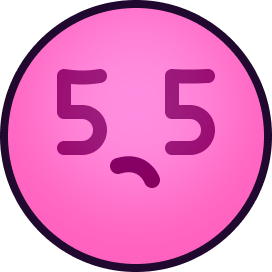
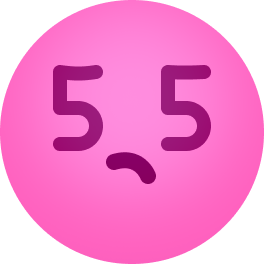
blink effect, shadow outline, fake rotate

diff --git a/game.js b/game.js
@@ -289,17 +289,32 @@ function renderSceneToCanvas(ctx) {
     }
 
     // foreground
+    ctx.fillStyle = "#20082EA0";
+    compDrops.bodies.forEach((body) => { renderSphereShadow(ctx, body); });
+    compWorld.bodies.forEach((body) => { renderSphereShadow(ctx, body); });
 
-    compDrops.bodies.forEach((body) => {
-        renderSphereBody(ctx, body);
-    });
+    compDrops.bodies.forEach((body, index) => { renderSphereBody(ctx, body, index); });
+    compWorld.bodies.forEach((body) => { renderSphereBody(ctx, body); });
 
-    compWorld.bodies.forEach((body) => {
-        renderSphereBody(ctx, body);
-    });
+    function renderSphereShadow(ctx, body) {
+        const r = body.circleRadius + 4;
+        let p = { x: body.position.x, y: body.position.y};
+
+        if (body.removeTimestamp !== undefined && !body.destination) {
+            const mergeDonePercent = (Common.now() - body.removeTimestamp) / MS_UNTIL_MERGE;
+            const mergeCurve = (Math.max(0, mergeDonePercent - 0.5) * 2) ** 4; // wait half the merge wait time, then accelerate towards destination
+            const destPosition = body.mergeTarget.position;
+            const currentMergePosition = lerpVec(p, destPosition, mergeCurve * (1-MERGE_LERP_BIAS));
+            p = currentMergePosition;
+        }
+
+        ctx.beginPath();
+        ctx.arc(p.x, p.y, r, 0, 2 * Math.PI);
+        ctx.fill();
+    }
 
     function renderSphereBody(ctx, body) {
-        const r = body.circleRadius * (body.growPercent ?? 1);
+        const r = body.circleRadius;
         let p = { x: body.position.x, y: body.position.y };
 
         if (body.removeTimestamp !== undefined && !body.destination) {
@@ -312,12 +327,21 @@ function renderSceneToCanvas(ctx) {
 
         ctx.save();
         ctx.translate(p.x, p.y);
-        ctx.rotate(body.angle)
+        const visualRotationAdd = (p.x / body.circleRadius) * Math.PI * 0.5;
+        ctx.rotate(body.angle + visualRotationAdd);
         const sprite = ctxSprites.sphere[body.stage - 1];
         const spriteScale = 0.5;
         ctx.drawImage(sprite, - sprite.width * spriteScale * 0.5, - sprite.height * spriteScale * 0.5, sprite.width * spriteScale, sprite.height * spriteScale);
         // ctx.fillStyle = 'black';
         // ctx.fillText(body.dropID ?? '', 0, 0)
+        if (body.removeTimestamp !== undefined) {
+            const mergeAnimPercentage = (Common.now() - body.removeTimestamp) / MS_UNTIL_MERGE;
+            console.log(mergeAnimPercentage)
+            ctx.fillStyle = (Math.sin((mergeAnimPercentage*4) ** 2) > 0) ? '#ffffff' : '#ffffff20';
+            ctx.beginPath();
+            ctx.arc(0, 0, r, 0, 2 * Math.PI);
+            ctx.fill();
+        }
         ctx.restore();
     }
 
@@ -483,7 +507,7 @@ function dropSphereFromStack() {
     if (compDrops.bodies.length > 0) moveStackX(inputX);
 }
 
-function newSphere(pos, pickedProperties, isStatic, growPercent) {
+function newSphere(pos, pickedProperties, isStatic) {
     const startRadius = pickedProperties.radius;
     const sphere = Bodies.circle(pos.x, pos.y, startRadius, {
         density: pickedProperties.density,
@@ -498,12 +522,6 @@ function newSphere(pos, pickedProperties, isStatic, growPercent) {
         points: pickedProperties.points,
         sound: pickedProperties.sound
     });
-    // if (growPercent !== undefined) { 
-    //     //Body.scale(sphere, growPercent, growPercent);
-    //     // sphere.render.sprite.xScale = 2 - growPercent;
-    //     // sphere.render.sprite.yScale = 2 - growPercent;
-    //     //sphere.growPercent = growPercent; 
-    // };
     return sphere;
 }
 
@@ -549,12 +567,12 @@ function moveStackX(newX) {
     stackX = newX;
 
     compDrops.bodies.forEach((body, index) => {
-        if (ticksCountdownUntilFollow === null) { // not in midair
-            const dir = (index % 2 === 0) ? 1 : -1;
-            const deltaPosX = stackX - body.position.x;
-            const rotAngle = Math.PI * (deltaPosX / body.circleRadius) * 0.5 * dir;
-            Body.setAngle(body, body.angle + rotAngle % (Math.PI * 2));
-        }
+        // if (ticksCountdownUntilFollow === null) { // not in midair
+        //     const dir = (index % 2 === 0) ? 1 : -1;
+        //     const deltaPosX = stackX - body.position.x;
+        //     const rotAngle = Math.PI * (deltaPosX / body.circleRadius) * 0.5 * dir;
+        //     Body.setAngle(body, body.angle + rotAngle % (Math.PI * 2));
+        // }
 
         Body.setPosition(body, {x: stackX, y: body.position.y});
         
